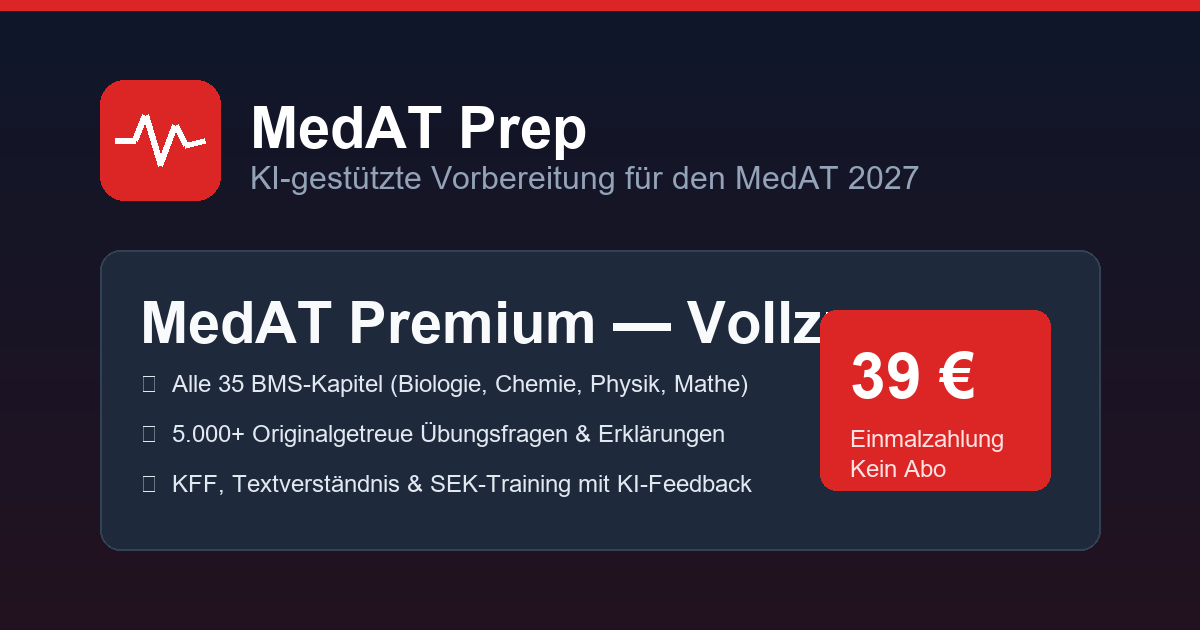
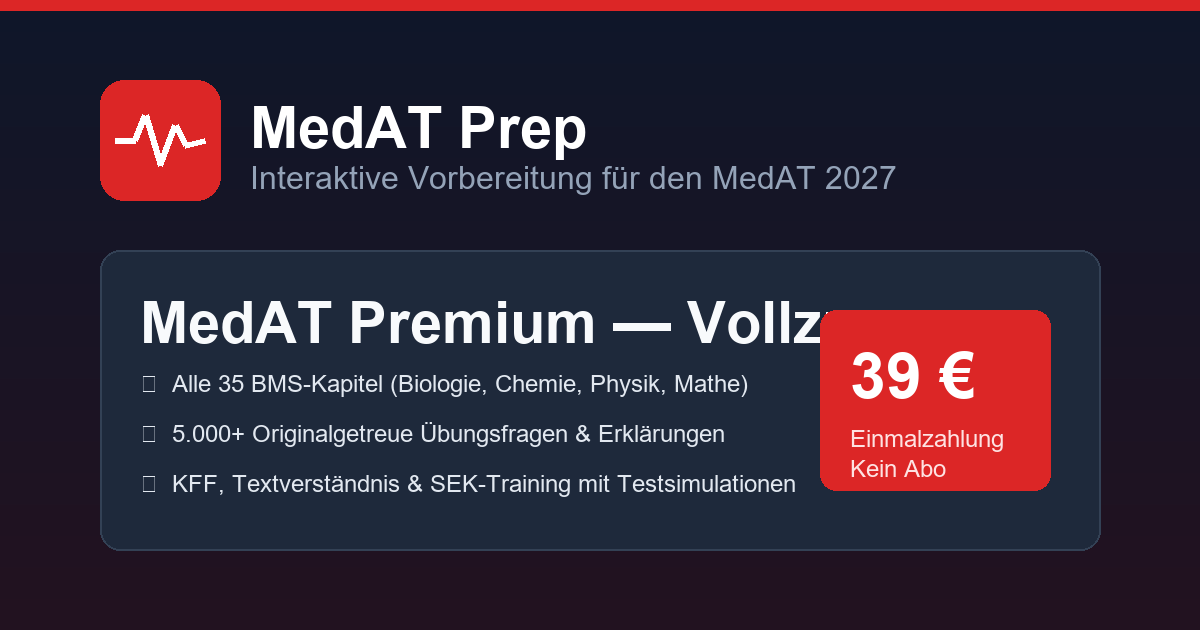
fix(compliance): replace AI decision/prediction terminology with educational e-learning and cutoff reference copy

Changed region(s): [[0.2158, 0.2413, 0.7708, 0.3016], [0.4933, 0.754, 0.6783, 0.7841]]

diff --git a/src/pages/TermsPage.tsx b/src/pages/TermsPage.tsx
@@ -353,7 +353,7 @@ Datum: ______________
                 <div className="rounded-xl border-2 border-primary/30 bg-primary-subtle/30 p-4 space-y-1">
                   <p className="font-bold text-ink text-base">MedAT Premium</p>
                   <p className="text-xl font-extrabold text-primary display-num">39 €</p>
-                  <p className="text-ink-3">Voller Zugriff auf 5.000+ Fragen, BMS, KFF, Textverständnis, Probetests & KI-Tutor für die gesamte MedAT-Saison.</p>
+                  <p className="text-ink-3">Voller Zugriff auf 5.000+ Fragen, BMS, KFF, Textverständnis, Probetests & didaktische Lernhilfe für die gesamte MedAT-Saison.</p>
                 </div>
 
                 <div className="rounded-xl border border-line bg-paper-warm/40 p-4 space-y-1">
@@ -365,7 +365,7 @@ Datum: ______________
 
               <p className="text-sm sm:text-[14.5px] leading-relaxed text-ink-2 pt-2">
                 (2) Die Bezahlung erfolgt über sichere, nach <strong>PCI-DSS Level 1</strong> zertifizierte Payment-Dienstleister
-                (z. B. Stripe, PayPal, Sofortüberweisung/Klarna, Kreditkarte oder EPS). Die Belastung deines Zahlungsmittels
+                (z. B. Paddle, Stripe, PayPal, Kreditkarte oder EPS). Die Belastung deines Zahlungsmittels
                 erfolgt unmittelbar mit Abschluss des Kaufvorgangs.
               </p>
             </div>
@@ -398,7 +398,7 @@ Datum: ______________
                   § 5
                 </span>
                 <h2 className="text-lg sm:text-xl font-bold text-ink">
-                  Gewährleistung & Unabhängigkeits-Haftungsausschluss
+                  Gewährleistung, Unabhängigkeit & E-Learning-Klarstellung
                 </h2>
               </div>
               <p className="text-sm sm:text-[14.5px] leading-relaxed text-ink-2">
@@ -416,10 +416,16 @@ Datum: ______________
                   Innsbruck, Graz oder der JKU Linz.
                 </p>
                 <p>
-                  Obwohl unsere didaktischen Fragen und KI-Lernsysteme auf den offiziellen Stichwortkatalogen von
+                  Obwohl unsere didaktischen Fragen und Lernsysteme auf den offiziellen Stichwortkatalogen von
                   medizinstudieren.at basieren und tausende Studierende erfolgreich vorbereitet haben, hängt das tatsächliche
                   Bestehen des MedAT stets von der individuellen Vorbereitung, dem Fleiß und der Prüfungsform der Kandidat:innen ab.
                   Ein einklagbarer Rechtsanspruch auf das Bestehen des Tests oder einen Medizinstudienplatz besteht daher naturgemäß nicht.
+                </p>
+                <p className="pt-1.5 font-semibold text-ink">
+                  (3) Reine E-Learning-Plattform / Keine Entscheidungsfindung über natürliche Personen:
+                </p>
+                <p>
+                  MedAT Prep ist eine reine E-Learning- und Übungssoftware für das selbstständige Studium. Die Plattform und ihre Software treffen keinerlei Zulassungs-, Auswahl-, Eignungs-, Bewertungs- oder sonstige Entscheidungen über natürliche Personen. Sämtliche Punkteschätzungen oder Testsimulationen dienen ausschließlich der individuellen Lernkontrolle der Nutzer:innen. Zulassungsentscheidungen zum Medizinstudium obliegen ausnahmslos und ausschließlich den zuständigen Medizinischen Universitäten.
                 </p>
               </div>
             </div>

diff --git a/src/components/LegalTrustModal.tsx b/src/components/LegalTrustModal.tsx
@@ -268,7 +268,7 @@ export default function LegalTrustModal({
                 <div className="p-4 rounded-xl border border-line bg-emerald-50/70 border-emerald-200/60 text-emerald-950 text-xs sm:text-[13px] leading-relaxed">
                   <p className="font-bold text-emerald-900 mb-1">💬 Fachliche Fragen zu Übungsaufgaben:</p>
                   <p>
-                    Wenn du innerhalb einer Übungsfrage oder eines Probetests eine Unklarheit entdeckst, kannst du diese direkt in der Frage markieren oder unserem KI-Tutor eine Nachfrage stellen. Unser didaktisches MedAT-Fachlektorat prüft gemeldete Items laufend.
+                    Wenn du innerhalb einer Übungsfrage oder eines Probetests eine Unklarheit entdeckst, kannst du diese direkt in der Frage markieren oder unserem didaktischen Tutor eine Nachfrage stellen. Unser MedAT-Fachlektorat prüft gemeldete Items laufend.
                   </p>
                 </div>
 
@@ -317,7 +317,7 @@ export default function LegalTrustModal({
                 <div className="space-y-2 text-xs sm:text-sm">
                   <h4 className="font-bold text-ink text-sm sm:text-base">2. Zweck und Rechtsgrundlagen der Verarbeitung</h4>
                   <p>
-                    Wir verarbeiten personenbezogene Daten unserer Nutzer:innen grundsätzlich nur, soweit dies zur Bereitstellung einer funktionsfähigen Website sowie unserer Inhalte und Leistungen (Einstufungstest, personalisierter KI-Lernplan, Probetests, Fortschrittsauswertung) erforderlich ist.
+                    Wir verarbeiten personenbezogene Daten unserer Nutzer:innen grundsätzlich nur, soweit dies zur Bereitstellung einer funktionsfähigen Website sowie unserer Inhalte und Leistungen (Einstufungstest, personalisierter Lernplan, Probetests, Lernstatistik) erforderlich ist.
                   </p>
                   <ul className="list-disc pl-5 space-y-1 text-ink-2">
                     <li>
@@ -413,9 +413,12 @@ export default function LegalTrustModal({
                   </p>
                   <ul className="list-disc pl-5 space-y-1 text-ink-2">
                     <li><strong>Basis-Zugang:</strong> 0 € dauerhaft kostenlos (keine Zahlungsdaten erforderlich).</li>
-                    <li><strong>Premium-Zugang:</strong> 39 € für 12 Monate voller Zugriff auf alle 5.000+ Fragen, Simulationen und den KI-Tutor. Keine versteckten Kosten.</li>
+                    <li><strong>Premium-Zugang:</strong> 39 € für 12 Monate voller Zugriff auf alle 5.000+ Fragen, Simulationen und die didaktische Lernhilfe. Keine versteckten Kosten.</li>
                     <li><strong>Intensiv-Paket:</strong> 349 € einmalig inklusive 6 persönlicher Coaching-Sessions bis zum Testtag.</li>
                   </ul>
+                  <p className="text-[11px] text-ink-3 pt-1">
+                    Rechtlicher Hinweis: MedAT Prep ist eine reine E-Learning-Plattform. Die Software trifft keinerlei Zulassungs- oder Auswahlentscheidungen über Personen.
+                  </p>
                 </div>
 
                 <div className="space-y-2 text-xs sm:text-sm">

diff --git a/index.html b/index.html
@@ -3,10 +3,10 @@
   <head>
     <meta charset="UTF-8" />
     <meta name="viewport" content="width=device-width, initial-scale=1.0" />
-    <title>MedAT Prep — KI-gestützte Vorbereitung für den MedAT 2027 | MedUni Wien, Innsbruck, Graz, Linz</title>
+    <title>MedAT Prep — Online-Vorbereitung für den MedAT 2027 | MedUni Wien, Innsbruck, Graz, Linz</title>
     <meta
       name="description"
-      content="Österreichs erste KI-gestützte MedAT-Vorbereitung. Personalisierte Lernpläne, 5.000+ Übungsfragen, realistische Probetests. Für Humanmedizin & Zahnmedizin."
+      content="Österreichs interaktive MedAT-Vorbereitung. Personalisierte Lernpläne, 5.000+ Übungsfragen, realistische Probetests. Für Humanmedizin & Zahnmedizin."
     />
     <meta
       name="keywords"
@@ -15,7 +15,7 @@
     <meta name="theme-color" content="#DC2626" />
 
     <!-- Open Graph -->
-    <meta property="og:title" content="MedAT Prep — KI-gestützte MedAT-Vorbereitung" />
+    <meta property="og:title" content="MedAT Prep — Interaktive MedAT-Vorbereitung" />
     <meta
       property="og:description"
       content="Personalisierte Lernpläne, 5.000+ Übungsfragen, realistische Probetests für den MedAT. Für Wien, Innsbruck, Graz und Linz."
@@ -26,9 +26,9 @@
     <meta property="og:image" content="https://medatprep.at/og-image.png" />
     <meta property="og:image:width" content="1200" />
     <meta property="og:image:height" content="630" />
-    <meta property="og:image:alt" content="MedAT Prep — KI-gestützte MedAT-Vorbereitung" />
+    <meta property="og:image:alt" content="MedAT Prep — Interaktive MedAT-Vorbereitung" />
     <meta name="twitter:card" content="summary_large_image" />
-    <meta name="twitter:title" content="MedAT Prep — KI-gestützte MedAT-Vorbereitung" />
+    <meta name="twitter:title" content="MedAT Prep — Interaktive MedAT-Vorbereitung" />
     <meta
       name="twitter:description"
       content="Personalisierte Lernpläne, 5.000+ Übungsfragen, realistische Probetests für den MedAT."
@@ -58,7 +58,7 @@
             "@id": "https://medatprep.at/#org",
             "name": "MedAT Prep",
             "url": "https://medatprep.at/",
-            "description": "KI-gestützte Vorbereitung auf den österreichischen Medizin-Aufnahmetest MedAT.",
+            "description": "Interaktive E-Learning-Plattform zur Vorbereitung auf den österreichischen Medizin-Aufnahmetest MedAT.",
             "address": {
               "@type": "PostalAddress",
               "streetAddress": "Praterstraße 1",
@@ -71,7 +71,7 @@
             "@type": "Product",
             "@id": "https://medatprep.at/#product",
             "name": "MedAT Prep Premium",
-            "description": "Vollzugriff: 5.000+ Übungsfragen, KI-Lernplan, alle Probetests, SEK-Training.",
+            "description": "Vollzugriff: 5.000+ Übungsfragen, didaktischer Lernplan, alle Probetests, SEK-Training.",
             "image": [
               "https://medatprep.at/medat-premium.png",
               "https://medatprep.at/og-image.png"

diff --git a/src/dashboard/Stats.tsx b/src/dashboard/Stats.tsx
@@ -577,7 +577,7 @@ export default function Stats({
             Statistiken & Fortschritt
           </h1>
           <p className="mt-0.5 text-[13px] sm:text-[14.5px] text-ink-3">
-            Echtzeit-Leistungsanalyse, Meisterschaftsgrade und offizielle MedAT-Zulassungsprognose.
+            Echtzeit-Leistungsanalyse, Meisterschaftsgrade und historischer Grenzwert-Vergleich.
           </p>
         </div>
 
@@ -656,7 +656,7 @@ export default function Stats({
 
         {/* Metric 3: Projected MedAT Score */}
         <div className="card-lift rounded-2xl border border-line bg-paper p-3 xs:p-4 sm:p-5 shadow-xs">
-          <p className="text-[10.5px] xs:text-[11.5px] font-bold uppercase tracking-wider text-ink-4">Prognose MedAT</p>
+          <p className="text-[10.5px] xs:text-[11.5px] font-bold uppercase tracking-wider text-ink-4">Hochrechnung MedAT</p>
           <div className="mt-1.5 xs:mt-2 flex flex-wrap items-baseline gap-1.5 xs:gap-2">
             <span className="num text-[22px] xs:text-[26px] sm:text-[28px] font-black leading-none text-primary">
               {projectedMedATScore !== null ? `${projectedMedATScore} %` : "—"}
@@ -713,7 +713,7 @@ export default function Stats({
       {/* ─── Navigation Tabs Bar ─── */}
       <div className="flex items-center gap-1.5 sm:gap-2 overflow-x-auto border-b border-line pb-2.5 scrollbar-none -mx-1 px-1 sm:mx-0 sm:px-0">
         {[
-          { id: "overview", label: "Übersicht & MedAT-Prognose", count: undefined },
+          { id: "overview", label: "Übersicht & Score-Berechnung", count: undefined },
           { id: "subtests", label: "Alle 13 Subtests", count: 13 },
           { id: "chapters", label: "Kapitel & 5-Sets", count: undefined },
           { id: "mocks", label: "Generalproben & Mocks", count: mockStats.totalFullMocks },
@@ -755,13 +755,13 @@ export default function Stats({
             <div className="flex flex-col sm:flex-row sm:items-center justify-between gap-4">
               <div>
                 <span className="text-[10.5px] sm:text-[11px] font-bold uppercase tracking-wider text-primary bg-primary-subtle px-2.5 py-1 rounded-lg">
-                  Österreichischer Zulassungs-Index
+                  Österreichischer Grenzwert-Vergleich
                 </span>
                 <h2 className="mt-2 text-[18px] sm:text-[20px] font-bold text-ink">
-                  MedAT-Zulassungschance & Quoten-Analyse
+                  Historischer Quoten- & Grenzwert-Vergleich
                 </h2>
                 <p className="mt-1 text-[12.5px] sm:text-[13.5px] text-ink-3 max-w-2xl leading-relaxed">
-                  Deine prognostizierte Gesamtpunktzahl errechnet sich aus der offiziellen Gewichtung:
+                  Deine berechnete Gesamtpunktzahl errechnet sich aus der offiziellen Gewichtung:
                   BMS (40%), KFF (40%), TV (10%) und SEK (10%).
                 </p>
               </div>

diff --git a/src/components/Closing.tsx b/src/components/Closing.tsx
@@ -144,7 +144,7 @@ export function CountdownCTA() {
               <>
                 <h3 className="text-[17px] xs:text-[19px] sm:text-[21px] font-extrabold tracking-[-0.02em]">Sichere dir deinen kostenlosen Start.</h3>
                 <p className="mt-1.5 sm:mt-2 text-[13px] xs:text-[13.5px] sm:text-[14px] leading-relaxed text-ink-2">
-                  Persönlicher KI-Lernplan, 200 Übungsfragen und 5-Schritte-Setup — sofort ohne Wartezeit starten.
+                  Persönlicher Lernplan, 200 Übungsfragen und 5-Schritte-Setup — sofort ohne Wartezeit starten.
                 </p>
                 <form className="mt-5 sm:mt-6" onSubmit={submit} noValidate>
                   <label htmlFor="signup-email" className="sr-only">
@@ -229,7 +229,7 @@ const FOOTER_COLS: FooterColumn[] = [
     title: "Produkt",
     links: [
       { label: "Über den MedAT", href: "ueber-medat" },
-      { label: "Lernplan & KI-Coach", href: "lernplan" },
+      { label: "Lernplan & Methoden", href: "lernplan" },
       { label: "Übungsfragen & BMS", href: "uebungsfragen" },
       { label: "Probetests & Simulation", href: "probetests" },
       { label: "Preise & Tarife", href: "preise" },
@@ -371,7 +371,7 @@ export function Footer() {
             </span>
           </a>
           <p className="mt-3.5 sm:mt-5 max-w-sm text-[13px] sm:text-[14px] leading-relaxed">
-            Die KI-gestützte Vorbereitung auf den österreichischen Medizin-Aufnahmetest. Entwickelt von Wiener
+            Die interaktive Vorbereitung auf den österreichischen Medizin-Aufnahmetest. Entwickelt von Wiener
             Ärzt:innen und MedAT-Top-Platzierer:innen für Wien, Innsbruck, Graz und Linz.
           </p>
           <div className="mt-4 sm:mt-6 flex flex-wrap items-center gap-2" aria-hidden="true">
@@ -470,7 +470,12 @@ export function Footer() {
 
       <div className="border-t border-night-2">
         <div className="wrap flex flex-col items-start justify-between gap-3 py-5 sm:py-6 text-[11px] xs:text-[12px] text-slate-500 sm:flex-row sm:items-center">
-          <p>© {year} MedAT Prep GmbH · Alle Rechte vorbehalten. Preise inkl. 20% österr. USt.</p>
+          <div>
+            <p>© {year} MedAT Prep GmbH · Alle Rechte vorbehalten. Preise inkl. 20% österr. USt.</p>
+            <p className="mt-1 text-[10.5px] text-slate-500 max-w-2xl leading-relaxed">
+              Rechtlicher Hinweis: MedAT Prep ist eine unabhängige E-Learning-Plattform zur Prüfungsvorbereitung und zum Selbststudium. Die Plattform trifft keinerlei Zulassungs-, Bewertungs- oder Auswahlentscheidungen über Personen. Zulassungsentscheidungen obliegen ausschließlich den zuständigen Medizinischen Universitäten.
+            </p>
+          </div>
           <div className="flex flex-wrap items-center gap-x-4 gap-y-1">
             <a
               href="#/terms"

diff --git a/src/components/Method.tsx b/src/components/Method.tsx
@@ -10,8 +10,8 @@ const STEPS = [
   },
   {
     n: "02",
-    title: "KI-Lernplan & Tutor",
-    text: "Der Plan wird wöchentlich neu berechnet: Schwächen bekommen Fokuszeit, Stärken nur Erhaltung — mit 24/7 KI-Tutor für jeden Rechenweg.",
+    title: "Strukturierter Lernplan & Tutor",
+    text: "Dein Plan passt sich deinem Lerntempo an: Schwächen bekommen Fokuszeit, Stärken nur Erhaltung — mit 24/7 didaktischer Lernhilfe für jeden Rechenweg.",
   },
   {
     n: "03",
@@ -193,7 +193,7 @@ export default function Method() {
                   {[
                     "4 vollständige Simulationen in Originalzeit (~4,5 h)",
                     "Live-Ranking gegen alle aktiven Nutzer:innen",
-                    "Grenzwert-Prognose für Wien, Innsbruck, Graz & Linz",
+                    "Historischer Grenzwert-Vergleich für Wien, Innsbruck, Graz & Linz",
                   ].map((f) => (
                     <li key={f} className="flex items-start gap-2.5 sm:gap-3 text-[13px] sm:text-[14px] text-slate-300">
                       <span className="mt-1 h-1.5 w-1.5 shrink-0 rounded-full bg-primary" aria-hidden="true" />
@@ -348,7 +348,7 @@ export default function Method() {
                   <IconSpark className="h-4.5 w-4.5 sm:h-5 sm:w-5" />
                 </span>
                 <div className="mt-3.5 sm:mt-5 flex items-center justify-between gap-2">
-                  <h3 className="text-[16px] xs:text-[17px] sm:text-[19px] font-bold tracking-[-0.01em] text-ink">MedAT KI-Tutor 24/7</h3>
+                  <h3 className="text-[16px] xs:text-[17px] sm:text-[19px] font-bold tracking-[-0.01em] text-ink">MedAT Lernhilfe & Tutor 24/7</h3>
                   <span className="rounded-md bg-emerald-50 px-2 py-0.5 text-[9.5px] xs:text-[10px] sm:text-[10.5px] font-bold uppercase tracking-wider text-emerald-700 ring-1 ring-emerald-600/20 shrink-0">Im Dashboard</span>
                 </div>
                 <p className="mt-1.5 sm:mt-2 text-[13px] xs:text-[13.5px] sm:text-[14px] leading-relaxed text-ink-2">

diff --git a/src/pages/QuotenAnalysePage.tsx b/src/pages/QuotenAnalysePage.tsx
@@ -1447,7 +1447,7 @@ export default function QuotenAnalysePage() {
                     </div>
 
                     <div className="rounded-2xl border border-line bg-paper p-3.5 shadow-2xs">
-                      <p className="text-[10px] font-bold uppercase text-ink-4">Zulassungsprognose</p>
+                      <p className="text-[10px] font-bold uppercase text-ink-4">Historischer Vorjahres-Vergleich</p>
                       <div className="mt-1 space-y-1">
                         <div className="flex items-center justify-between text-[11px] font-bold">
                           <span className="text-ink-2">AT-Quote:</span>
@@ -1459,8 +1459,8 @@ export default function QuotenAnalysePage() {
                             }
                           >
                             {percentileCalculation.atAdmitted
-                              ? "✓ Direktzulassung"
-                              : "⚠ Grenzbereich / Warteliste"}
+                              ? "✓ Über Vorjahresschnitt"
+                              : "⚠ Nahe Vorjahresgrenze"}
                           </span>
                         </div>
                         <div className="flex items-center justify-between text-[11px] font-bold">
@@ -1473,11 +1473,12 @@ export default function QuotenAnalysePage() {
                             }
                           >
                             {percentileCalculation.euAdmitted
-                              ? "✓ Direktzulassung"
-                              : "✕ Noch nicht ausreichend"}
+                              ? "✓ Über Vorjahresschnitt"
+                              : "✕ Unter Vorjahresgrenze"}
                           </span>
                         </div>
                       </div>
+                      <p className="text-[9.5px] text-ink-4 mt-1.5 italic">Reiner Richtwert anhand historischer Daten. Keine Zulassungsentscheidung.</p>
                     </div>
                   </div>
 

diff --git a/src/lib/data.ts b/src/lib/data.ts
@@ -248,8 +248,8 @@ export const FAQS: Faq[] = [
   },
   {
     id: "q7",
-    q: "Wie funktioniert der KI-Lernplan?",
-    a: "Der Algorithmus wertet jede Antwort aus: Thema, Schwierigkeitsgrad, benötigte Zeit und Fehlertyp (Flüchtigkeitsfehler vs. Wissenslücke). Daraus berechnet er wöchentlich neu, welche Inhalte du wiederholen, vertiefen oder nur erhalten musst — inklusive Prognose, wo dein Score am Testtag liegen würde.",
+    q: "Wie funktioniert der adaptive Lernplan?",
+    a: "Das System analysiert deine bearbeiteten Übungsaufgaben nach Themen und Fehlermustern. Daraus strukturiert es deinen Lernplan übersichtlich nach Prioritäten, damit du Wissenslücken gezielt vor dem Testtag schließt.",
   },
 ];
 
@@ -279,7 +279,7 @@ export const PRICING: PricingTier[] = [
     features: [
       "200 kostenlose Fragen (4 volle BMS-Kapitel)",
       "1 vollständiger Probetest (Generalprobe #1)",
-      "Persönlicher KI-Lernplan & Vorbereitungs-Setup",
+      "Persönlicher Lernplan & Vorbereitungs-Setup",
       "Community-Forum & Lerngruppen",
     ],
     cta: "Kostenlos starten",
@@ -294,12 +294,12 @@ export const PRICING: PricingTier[] = [
     unit: "year",
     features: [
       "Alle 5.000+ Fragen (BMS, KFF, TV & SEK)",
-      "MedAT KI-Tutor: 24/7 Erklärungen & Rechenwege",
-      "Adaptiver KI-Lernplan, wöchentlich neu",
+      "Didaktische Lernhilfe: 24/7 Erklärungen & Rechenwege",
+      "Adaptiver Lernplan, wöchentlich aktualisiert",
       "4 Probetests unter Echtbedingungen",
       "SEK- & KFF-Intensivtraining",
       "Gezieltes Schwachstellen-Training (Fehler-Hub)",
-      "Grenzwert-Prognose & Live-Ranking",
+      "Historische Grenzwerte & Punkte-Vergleich",
       "Für MedAT-H und MedAT-Z",
       "Volle 12 Monate Zugriff (nur 3,25 € / Monat)",
     ],

diff --git a/src/simulator/MedatResultsView.tsx b/src/simulator/MedatResultsView.tsx
@@ -236,7 +236,7 @@ export function MedatResultsView({
           { id: "performance", label: "LEISTUNG & THEMEN" },
           { id: "pace", label: "ZEIT-ANALYSE" },
           { id: "solutions", label: "ANTWORT-REVIEW", action: onOpenReview },
-          { id: "progress", label: "ZULASSUNGSPROGNOSE" },
+          { id: "progress", label: "GRENZWERT-VERGLEICH" },
         ].map((tab) => {
           const isActive = activeTab === tab.id;
           return (
@@ -645,16 +645,16 @@ export function MedatResultsView({
       )}
 
       {/* =================================================================
-         TAB CONTENT: ZULASSUNGSPROGNOSE (PROGRESS)
+         TAB CONTENT: GRENZWERT-VERGLEICH (PROGRESS)
          ================================================================= */}
       {activeTab === "progress" && (
         <div className="rounded-3xl border border-slate-200/90 bg-white p-6 sm:p-8 shadow-sm space-y-5">
           <div className="space-y-1 border-b border-slate-100 pb-4">
             <h3 className="text-[16px] font-black text-slate-900 uppercase tracking-wider">
-              Universitäts-Zulassungsprognose (Österreich)
+              Historischer Universitäts-Grenzwert-Vergleich (Österreich)
             </h3>
             <p className="text-[12.5px] text-slate-500">
-              Vergleich deines Testergebnisses mit den historischen Aufnahmegrenzen (MedUni Wien, Innsbruck, Graz, Linz).
+              Statistischer Vergleich deines Testergebnisses mit den historischen Aufnahmegrenzen der Vorjahre (MedUni Wien, Innsbruck, Graz, Linz). Keine offizielle Zulassungsentscheidung.
             </p>
           </div>
 

diff --git a/src/components/Hero.tsx b/src/components/Hero.tsx
@@ -116,7 +116,7 @@ export default function Hero() {
             className="hero-enter mt-4 sm:mt-6 max-w-[540px] text-[14px] xs:text-[15px] sm:text-[clamp(0.9375rem,0.5vw+0.875rem,1.125rem)] leading-relaxed text-ink-2"
             style={{ animationDelay: "200ms" }}
           >
-            {t("Mit KI-gestütztem Training für")} <strong className="font-semibold text-ink">{t("BMS, KFF, Textverständnis und SEK")}</strong>.{" "}
+            {t("Mit interaktivem Training für")} <strong className="font-semibold text-ink">{t("BMS, KFF, Textverständnis und SEK")}</strong>.{" "}
             {t("Keine 20.000 willkürlichen Fragen — sondern die eine Übung, die du")}{" "}
             <em className="not-italic font-semibold text-primary">{t("jetzt")}</em>{" "}
             {t("brauchst. Personalisiert. Auf Deutsch. Für Wien, Innsbruck, Graz und Linz.")}
@@ -286,7 +286,7 @@ export default function Hero() {
                     <IconSpark className="h-3.5 w-3.5" />
                   </span>
                   <p className="text-[10.5px] sm:text-[11px] leading-relaxed text-slate-300">
-                    <span className="font-semibold text-paper">KI-Tutor:</span> Gut gemacht! Morgen: aktiver Recall statt
+                    <span className="font-semibold text-paper">Lern-Tutor:</span> Gut gemacht! Morgen: aktiver Recall statt
                     Wiederlesen — ich hab dir 12 Karten vorbereitet.
                   </p>
                 </div>

diff --git a/src/simulator/PracticeResultView.tsx b/src/simulator/PracticeResultView.tsx
@@ -1140,7 +1140,7 @@ export function PracticeResultView({
               <div className="flex flex-wrap items-center justify-between gap-2">
                 <div className="flex items-center gap-2 text-red-600 text-[11px] font-black uppercase tracking-wider">
                   <span>🇦🇹</span>
-                  <span>{examType} ZULASSUNGSPROGNOSE V10</span>
+                  <span>{examType} HISTORISCHER GRENZWERT-VERGLEICH</span>
                 </div>
 
                 {/* Quota Switcher */}
@@ -1174,10 +1174,10 @@ export function PracticeResultView({
 
               <div>
                 <h3 className="text-[16px] font-black text-slate-900 uppercase tracking-wider">
-                  Universitäts-Zulassungsprognose (Österreich)
+                  Universitäts-Grenzwert-Vergleich (Österreich)
                 </h3>
                 <p className="text-[12.5px] text-slate-500">
-                  Live-Vergleich deines Scores ({accuracy}%) mit den historischen Cutoffs für das gewählte Kontingent.
+                  Statistischer Vergleich deines Scores ({accuracy}%) mit den historischen Cutoffs der Vorjahre. Keine offizielle Zulassungsentscheidung.
                 </p>
               </div>
             </div>

diff --git a/src/pages/ImpressumPage.tsx b/src/pages/ImpressumPage.tsx
@@ -279,6 +279,12 @@ export default function ImpressumPage() {
                     eigenverantwortlichen und chancengerechten Vorbereitung.
                   </p>
                 </div>
+                <div className="p-3.5 rounded-xl border border-line bg-amber-500/10 space-y-1">
+                  <p className="font-bold text-ink text-xs">Aufsichtsrechtlicher Hinweis zur Plattform (E-Learning):</p>
+                  <p className="text-ink-2 text-[11.5px] leading-relaxed">
+                    MedAT Prep ist ein reines E-Learning-Werkzeug zur individuellen Prüfungsvorbereitung. Auf der Plattform kommen keine Systeme zum Einsatz, die rechtliche oder sonstige maßgebliche Entscheidungen über natürliche Personen treffen oder beeinflussen (keine Zulassungs- oder Auswahlentscheidungen im Sinne des Art. 6 / Anhang III KI-VO).
+                  </p>
+                </div>
               </div>
             </div>
 
